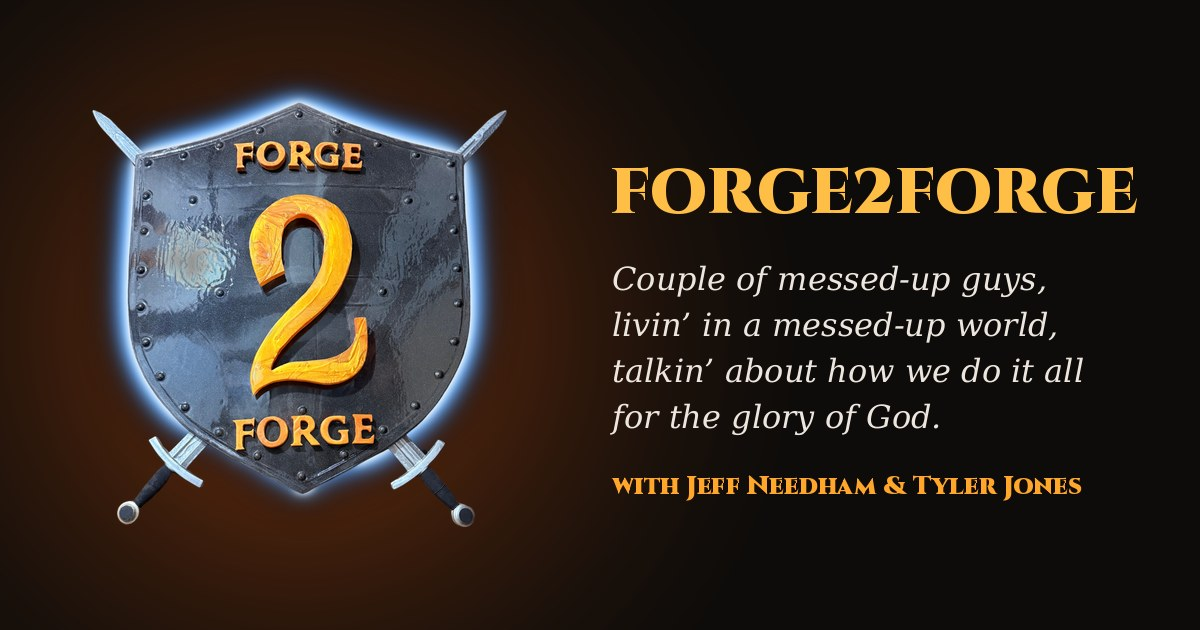
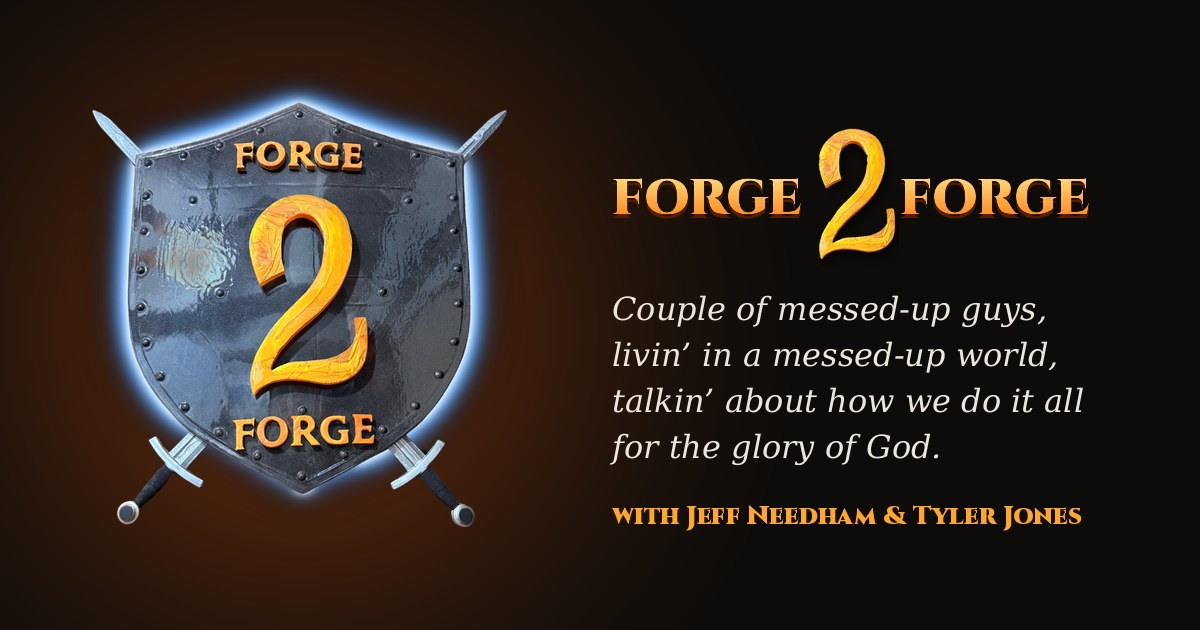
Use the sign's 2 in the link preview card title
Claude-Session: https://claude.ai/code/session_01EV6NdDtmJL1veYv9Z3BsQH

Changed region(s): [[0.4933, 0.2111, 0.9558, 0.8444]]

diff --git a/index.html b/index.html
@@ -10,13 +10,13 @@
 <meta property="og:title" content="Forge2Forge Podcast">
 <meta property="og:description" content="Couple of messed-up guys, livin’ in a messed-up world, talkin’ about how we do it all for the glory of God.">
 <meta property="og:url" content="https://forge2forge.com/">
-<meta property="og:image" content="https://forge2forge.com/icons/share-card.jpg">
+<meta property="og:image" content="https://forge2forge.com/icons/share-card.jpg?v=2">
 <meta property="og:image:width" content="1200">
 <meta property="og:image:height" content="630">
 <meta name="twitter:card" content="summary_large_image">
 <meta name="twitter:title" content="Forge2Forge Podcast">
 <meta name="twitter:description" content="Couple of messed-up guys, livin’ in a messed-up world, talkin’ about how we do it all for the glory of God.">
-<meta name="twitter:image" content="https://forge2forge.com/icons/share-card.jpg">
+<meta name="twitter:image" content="https://forge2forge.com/icons/share-card.jpg?v=2">
 <link rel="manifest" href="manifest.webmanifest">
 <meta name="theme-color" content="#121110">
 <meta name="apple-mobile-web-app-capable" content="yes">
